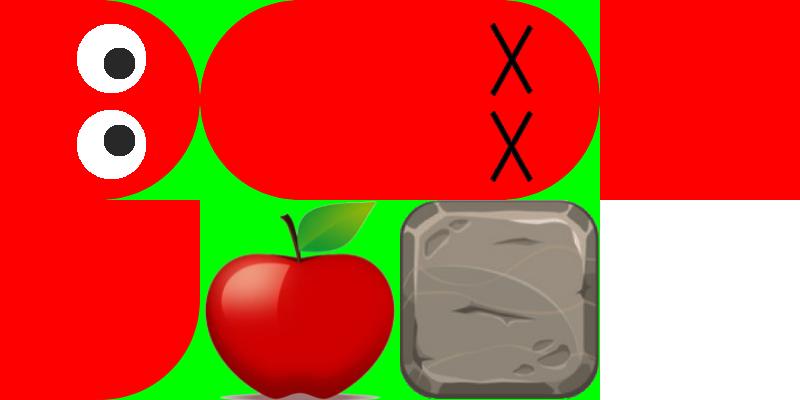
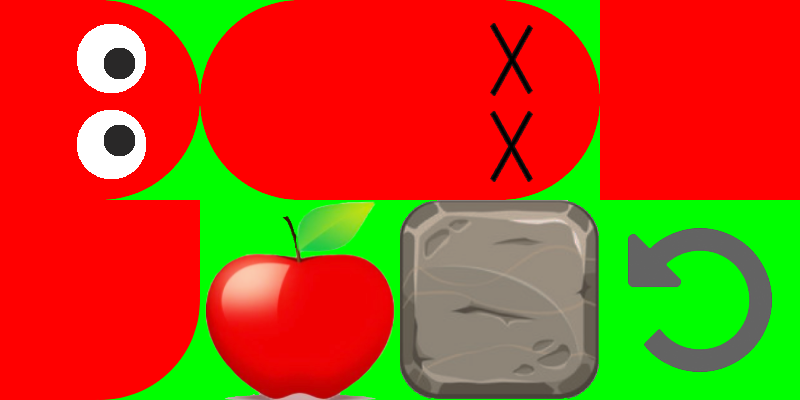
update button class and add restart game

Changed region(s): [[0.75, 0.48, 1.0, 1.0], [0.25, 0.48, 0.5, 1.0]]

diff --git a/ConsoleApplication1/Game.cpp b/ConsoleApplication1/Game.cpp
@@ -163,14 +163,13 @@ void Game::update()
 void Game::loop()
 {
 	Uint32 frameStart, frameTime;	// đếm thời gian để chạy một khung hình từ đó tính ra thời gian trễ của mỗi khung hình
-	
 	paint();
+
 	while (true)
 	{
 		frameStart = SDL_GetTicks();
 
 		pollEvent();
-		
 		if (!isPause && snake.alive)	update();	// nếu không dừng thì tiếp tục game
 	
 		// thời gian chạy một khung hình
@@ -179,35 +178,13 @@ void Game::loop()
 		if (frameDelay > frameTime) 
 			SDL_Delay(frameDelay - frameTime);
 
-		// hiển thị thông báo và điểm chơi được khi thua
 		if (!snake.alive)
-		{
-			SDL_Delay(150);
-			clrscr(150);
-			// hiển thị thông báo thua 
-			text[LOSE].loadText(renderer, "YOU LOSE!!!");
-
-			int lose_x = Center(0, SCREEN_WIDTH, text[LOSE].getWidth()),
-				lose_y = Center(0, SCREEN_HEIGHT, text[LOSE].getHeight());
-			text[LOSE].render(renderer, lose_x, lose_y);
-
-			// hiển thị điểm
-			text[SCORE].loadText(renderer, "YOUR SCORE: " + to_string(score));
-			int score_x = Center(0, SCREEN_WIDTH, text[SCORE].getWidth()),
-				score_y = 2 * SCREEN_HEIGHT / 3;
-			text[SCORE].render(renderer, score_x, score_y);
-			SDL_RenderPresent(renderer);
-			SDL_Event e;
-			while (SDL_WaitEvent(&e))
-				if (e.type == SDL_QUIT)
-				{
-					running = false;
-					break;
-				}
-		}
-		if (!running) break;
+			break;
+		if (!running) return;
 	}
+	
 	saveHighestScore();
+	restart();
 }
 
 void Game::clrscr(int opacity)
@@ -215,4 +192,59 @@ void Game::clrscr(int opacity)
 	SDL_Rect screen = { 0, 0, SCREEN_WIDTH, SCREEN_HEIGHT };
 	SDL_SetRenderDrawColor(renderer, R_BACKGROUND, G_BACKGROUND, B_BACKGROUND, opacity);
 	SDL_RenderFillRect(renderer, &screen);
+}
+
+void Game::restart()
+{
+	SDL_Delay(150);
+	clrscr(150);
+	// hiển thị thông báo thua 
+	text[LOSE].loadText(renderer, "YOU LOSE!!!");
+
+	// căn giữa cho text 
+	int lose_x = Center(0, SCREEN_WIDTH, text[LOSE].getWidth()),
+		lose_y = SCREEN_HEIGHT / 4;
+	text[LOSE].render(renderer, lose_x, lose_y);
+
+	// hiển thị điểm
+	text[SCORE].loadText(renderer, "YOUR SCORE: " + to_string(score));
+
+	//căn giữa 
+	int score_x = Center(0, SCREEN_WIDTH, text[SCORE].getWidth()),
+		score_y = SCREEN_HEIGHT / 2;
+	text[SCORE].render(renderer, score_x, score_y);
+
+	// hiển thị nút chơi lại
+	//căn giữa
+	int button_x = Center(0, SCREEN_WIDTH, restartButton.getWidth()),
+		button_y = SCREEN_HEIGHT / 2;
+
+	restartButton.setCoordinate(button_x, button_y);
+	restartButton.resize(200, 200, true);	// chỉnh kích thước của nút lên 200 * 200
+
+	restartButton.paint(renderer, assets.texture);
+
+	SDL_RenderPresent(renderer);
+
+	SDL_Event e;
+	while (SDL_WaitEvent(&e))
+		if (e.type == SDL_QUIT)
+		{
+			running = false;
+			return;
+		}
+		else if (e.type == SDL_MOUSEBUTTONDOWN)
+		{
+			int x, y;
+			SDL_GetMouseState(&x, &y);
+
+			if (restartButton.isClicked(x, y))
+			{
+				SDL_Delay(200);
+				restartButton.erase();
+				init();
+				loop();
+				return;
+			}
+		}
 }

diff --git a/ConsoleApplication1/Button.hpp b/ConsoleApplication1/Button.hpp
@@ -1,15 +1,34 @@
-#pragma once
-#include <SDL2/SDL.h>
+#pragma once
+#include "Block.hpp"
 #include "Console.hpp"
 
 struct Button : private SDL_Rect
 {
 	Button();
 	Button(int _x, int _y);
-	bool isPresent;
-	void paint(SDL_Renderer* renderer, SDL_Texture* texture, SDL_Rect src);
+	SDL_Rect resource;	// lưu vị trí, kích thước button trong file nguồn 
+	bool isPresent;	// nút đã hiển thị trên màn hình hay không
+	// vẽ ra màn hình
+	void paint(SDL_Renderer* renderer, SDL_Texture* texture);
+	/* 
+	* xem button có được nhấn hay không 
+	* Trả về true nếu được nhấn 
+	* Trả về false nếu không nhấn 
+	*/
 	bool isClicked(int _x, int _y);
+	// đặt lại tọa độ cho button
+	void setCoordinate(int _x, int _y);
+	/*
+	* Đặt lại kích thước với tùy chọn center
+	* center = true : căn giữa
+	* center = false : không căn giữa 
+	*/
 	void resize(int _w, int _h, bool center);
+	// đặt lại biến hiển thị (isPresent) bằng false 
 	void erase();
+	// trả về chiều rộng của button 
+	int getWidth();
+	// trả về chiều cao của button 
+	int getHeight();
 };
 

diff --git a/ConsoleApplication1/Button.cpp b/ConsoleApplication1/Button.cpp
@@ -5,6 +5,7 @@ Button::Button()
 	x = y = 0;
 	w = h = GRID;
 	isPresent = false;
+	resource = { 0, 0, 0, 0 };
 }
 
 Button::Button(int _x, int _y)
@@ -13,12 +14,13 @@ Button::Button(int _x, int _y)
 	y = _y;
 	w = h = GRID;
 	isPresent = false;
+	resource = { 0, 0, 0, 0 };
 }
 
-void Button::paint(SDL_Renderer* renderer, SDL_Texture* texture, SDL_Rect src)
+void Button::paint(SDL_Renderer* renderer, SDL_Texture* texture)
 {
 	isPresent = true;
-	SDL_RenderCopy(renderer, texture, &src, this);
+	SDL_RenderCopy(renderer, texture, &resource, this);
 }
 
 bool Button::isClicked(int _x, int _y)
@@ -27,6 +29,12 @@ bool Button::isClicked(int _x, int _y)
 	if (_x < x || _y < y) return false;
 	if (_x > x + w || _y > y + h) return false;
 	return true;
+}
+
+void Button::setCoordinate(int _x, int _y)
+{
+	x = _x;
+	y = _y;
 }
 
 void Button::resize(int _w, int _h, bool center)
@@ -45,4 +53,14 @@ void Button::resize(int _w, int _h, bool center)
 void Button::erase()
 {
 	isPresent = false;
+}
+
+int Button::getWidth()
+{
+	return w;
+}
+
+int Button::getHeight()
+{
+	return h;
 }

diff --git a/ConsoleApplication1/GameInit.cpp b/ConsoleApplication1/GameInit.cpp
@@ -65,6 +65,7 @@ void Game::resourceInit()
 	const int SIZE = assets.getWidth() / 4;
 	food.resource = { SIZE, SIZE, SIZE, SIZE };
 	ground.rockSrc = { 2 * SIZE, SIZE, SIZE, SIZE };
+	restartButton.resource = { 3 * SIZE, SIZE, SIZE, SIZE };
 
 	snake.src[HEAD] = { 0, 0, SIZE, SIZE };
 	snake.src[TAIL] = { SIZE, 0, SIZE, SIZE };
@@ -86,6 +87,8 @@ void Game::init()
 	ground = Ground();
 
 	food = Food();
+
+	restartButton = Button();
 
 	soundsInit();
 	resourceInit();
@@ -114,6 +117,7 @@ void Game::paint()
 
 Game::~Game()
 {
+	cerr << "Game destructor called!" << endl;
 	SDL_DestroyRenderer(renderer);
 	SDL_DestroyWindow(window);
 	SDL_Quit();

diff --git a/ConsoleApplication1/Game.hpp b/ConsoleApplication1/Game.hpp
@@ -7,6 +7,7 @@
 #include "Ground.hpp"
 #include "RenderText.hpp"
 #include "MediaPlayer.hpp"
+#include "Button.hpp"
 
 using namespace std;
 // liệt kê các loại âm thanh
@@ -31,6 +32,7 @@ class Game
 	Ground ground;
 	Text text[TOTALS_TEXT];
 	Media sounds[TOTAL_SOUNDS];
+	Button restartButton;
 
 	int score;
 	int highestScore;
@@ -38,6 +40,7 @@ class Game
 	int getHighestScore();
 	// lưu điểm cao nhất vào file
 	void saveHighestScore();
+	void restart();
 	void Pause();
 	void unPause();
 	void paint();

diff --git a/ConsoleApplication1/Snake.hpp b/ConsoleApplication1/Snake.hpp
@@ -28,6 +28,7 @@ public:
 	vector<SDL_Rect> src;	//lưu lại vị trí, kích thước của các bộ phận rắn từ file nguồn
 	Snake();
 	Snake(int length);
+	~Snake();
 	/*
 	* Vẽ rắn với grassColor dùng để vẽ lại bản đồ với màu cỏ so le nhau
 	*/

diff --git a/ConsoleApplication1/Snake.cpp b/ConsoleApplication1/Snake.cpp
@@ -110,3 +110,11 @@ bool Snake::isSuitable(Block newBlock)
 		return false;
 	return true;
 }
+
+Snake::~Snake()
+{
+	cerr << "Snake destructor called!" << endl;
+	src.clear();
+	delete temp;
+	clear();
+}

diff --git a/ConsoleApplication1/Queue.hpp b/ConsoleApplication1/Queue.hpp
@@ -211,6 +211,7 @@ ReverseQueue<Type>::ReverseQueue()
 template <class Type>
 ReverseQueue<Type>::~ReverseQueue()
 {
+    cerr << "Queue destructor called!" << endl;
     clear();
 }
 

diff --git a/ConsoleApplication1/main.cpp b/ConsoleApplication1/main.cpp
@@ -7,4 +7,5 @@ int main(int argc, char *argv[])
 	Game game;
 	game.init();
 	game.loop();
+	return 0;
 }
